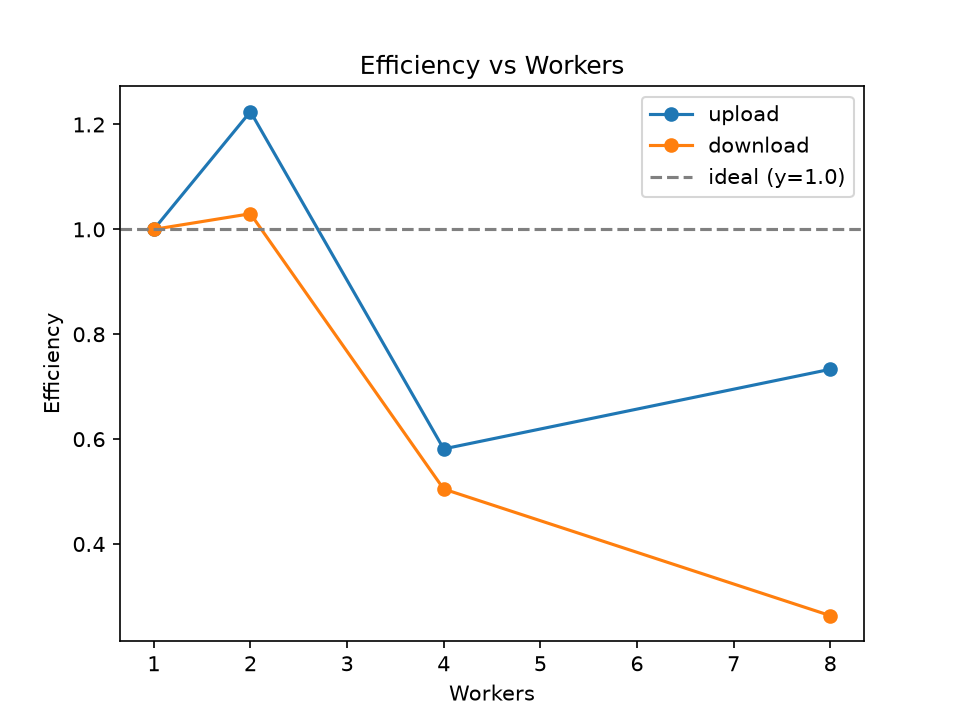
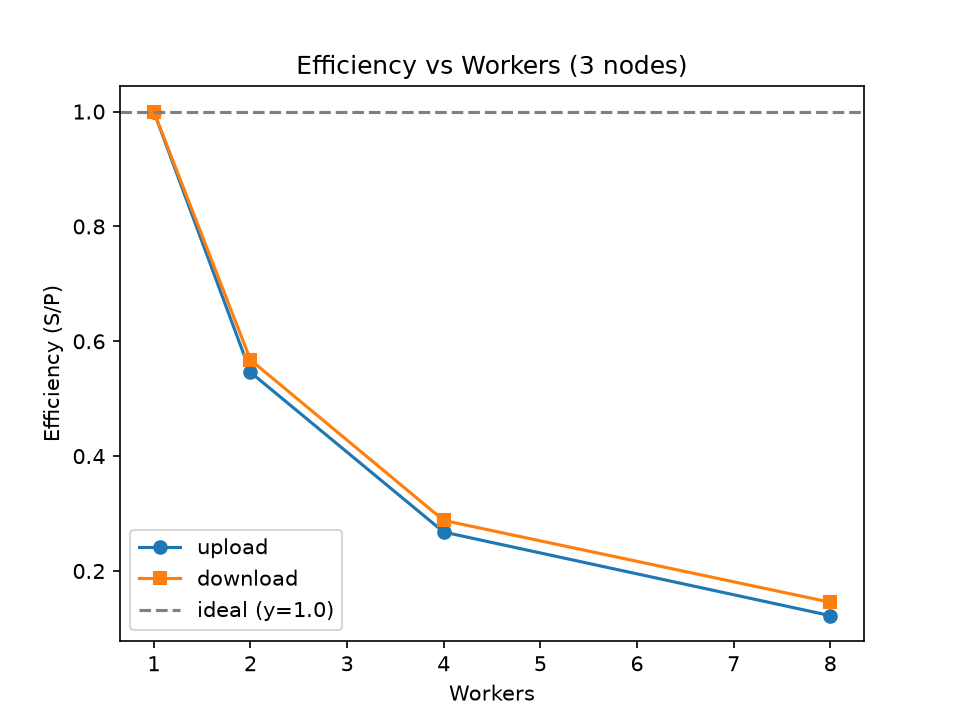
feat(bench): FASE 4 real benchmark matrix 2-16 nodes + fault F1-F6 PASS; FASE 5 README

diff --git a/scripts/plots.py b/scripts/plots.py
@@ -45,7 +45,7 @@ def _tier(tier: str) -> list[dict]:
 
 def plot_speedup_vs_workers() -> Path | None:
     rows = _tier("1")
-    up = _mean_by(rows, "workers", "upload_throughput_mibs")
+    up = _mean_by(rows, "workers", "throughput_mibps")
     down = _mean_by(rows, "workers", "download_throughput_mibs")
     if not up:
         print("SKIPPED: no tier-1 data")
@@ -71,7 +71,7 @@ def plot_speedup_vs_workers() -> Path | None:
 
 def plot_efficiency_vs_workers() -> Path | None:
     rows = _tier("1")
-    up = _mean_by(rows, "workers", "upload_throughput_mibs")
+    up = _mean_by(rows, "workers", "throughput_mibps")
     down = _mean_by(rows, "workers", "download_throughput_mibs")
     if not up:
         print("SKIPPED: no tier-1 data")
@@ -99,7 +99,7 @@ def plot_efficiency_vs_workers() -> Path | None:
 
 
 def plot_throughput_vs_nodes() -> Path | None:
-    up = _mean_by(_tier("2"), "nodes", "upload_throughput_mibs")
+    up = _mean_by(_tier("2"), "nodes", "throughput_mibps")
     down = _mean_by(_tier("2"), "nodes", "download_throughput_mibs")
     if not up:
         print("SKIPPED: no tier-2 data")
@@ -116,7 +116,7 @@ def plot_throughput_vs_nodes() -> Path | None:
 
 
 def plot_scalability_nodes() -> Path | None:
-    up = _mean_by(_tier("2"), "nodes", "upload_throughput_mibs")
+    up = _mean_by(_tier("2"), "nodes", "throughput_mibps")
     if not up:
         print("SKIPPED: no tier-2 data")
         return None

diff --git a/README.md b/README.md
@@ -31,7 +31,9 @@ DFS-X Terminal adalah implementasi sistem berkas terdistribusi mini berbasis CLI
    - [Generasi 9 Grafik Analisis Ilmiah](#generasi-9-grafik-analisis-ilmiah)
 9. [Monitoring Stack (Prometheus & Grafana)](#-monitoring-stack-prometheus--grafana)
 10. [Pemeliharaan & Pembersihan Resource Disk](#-pemeliharaan--pembersihan-resource-disk)
-11. [Kepatuhan & Aturan Teknis (Rules of Engagement)](#-kepatuhan--aturan-teknis-rules-of-engagement)
+11. [Panduan Video Demo (Max 10 Menit)](#-panduan-video-demo-max-10-menit)
+12. [Troubleshooting Umum](#-troubleshooting-umum)
+13. [Kepatuhan & Aturan Teknis (Rules of Engagement)](#-kepatuhan--aturan-teknis-rules-of-engagement)
 
 ---
 
@@ -134,6 +136,19 @@ Jalankan container cluster menggunakan Podman Compose:
 podman-compose -p dfsx up -d
 ```
 *(Atau menggunakan helper cross-platform: `python scripts/cluster.py up --nodes 3`)*
+
+### Metode Deploy Stabil (WSL2 / Podman Windows)
+
+Di lingkungan Podman Windows (WSL2 backend) komponen `aardvark-dns` sering gagal start sehingga `podman-compose` tidak bisa resolve nama container. Metode yang terbukti stabil adalah **menjalankan container satu per satu dengan `--network dfsnet` (tanpa DNS)**, di mana setiap container mendapat static IP dan entri `/etc/hosts` via `--add-host`. Orkestrator ini sudah diimplementasikan di `scripts/cluster.py`:
+
+```bash
+python scripts/cluster.py build                  # build image localhost/dfsx:latest
+python scripts/cluster.py down -v               # bersihkan cluster + volume
+python scripts/cluster.py up --nodes 3          # 1 master + 3 datanode + 1 client
+python scripts/cluster.py up --nodes 16         # skalabilitas hingga 16 node
+```
+
+Network `dfsnet` dibuat dengan `--disable-dns --subnet 10.90.0.0/24`; master di `10.90.0.13`, datanode `10.90.0.14..`, client `10.90.0.14+N`. Semua container mendapat `--add-host` untuk tiap nama sehingga resolusi nama berfungsi tanpa DNS. **Gunakan metode ini** untuk eksperimen; `podman-compose` hanya referensi.
 
 ### Memeriksa Status & Kesiapan Cluster
 
@@ -278,6 +293,28 @@ podman-compose -p dfsx-mon -f docker-compose.monitoring.yml down -v
 # Pembersihan menyeluruh sistem podman
 podman system prune -a --volumes -f
 ```
+
+---
+
+## 🎬 Panduan Video Demo (Max 10 Menit)
+
+Struktur presentasi video (max 10 menit):
+
+- **0–1 mnt — Topologi:** tampilkan `podman ps`, arsitektur 1 master + N datanode + client, network `dfsnet` dengan static IP.
+- **1–3 mnt — Upload & Verify:** `gen-data --profile lite`, `upload /work/testdata/f001.bin f001.bin`, `info f001.bin` (tunjukkan 2 replika di node berbeda — anti-affinity), `verify f001.bin`.
+- **3–6 mnt — Kill-node demo & auto-recovery:** `stop dfs-dn1`, upload file besar, master menandai node DOWN, realokasi otomatis, `start dfs-dn1`, tunggu re-replication, `status` kembali sehat.
+- **6–8 mnt — Grafik performa:** tampilkan 7 plot di `results/plots/` (speedup, efficiency, throughput vs nodes, scalability, tasks/s, latency, recovery timeline).
+- **8–10 mnt — Kesimpulan:** ringkasan pencapaian (RF=2, anti-affinity, fault recovery F1–F6, skalabilitas 2–16 node), keterbatasan hardware (2 GB RAM VM).
+
+## 🔧 Troubleshooting Umum
+
+- **grpcio build fail / `protoc` error:** pastikan `.venv` Python 3.12 aktif; regenerasi stub dengan `python -m grpc_tools.protoc -I. --python_out=. --grpc_python_out=. proto/dfs.proto`. Protobuf stub (`proto/dfs_pb2*.py`) sengaja di-gitignore.
+- **Podman cgroup error (`cannot bind`, `conmon` state):** jangan pakai `--memory`/`--cpus` pada `podman run` di VM ini; gunakan `scripts/cluster.py` yang sudah `--cgroups=disabled`. Jika machine rusak: `podman machine stop` → `podman machine rm` → `podman machine init --cpus 4 --memory 4096` → `podman machine start`.
+- **aardvark-dns gagal start:** gunakan `scripts/cluster.py` (network `--disable-dns` + static IP + `--add-host`), jangan patch `docker-compose.yml`.
+- **Node DOWN:** cek `podman ps`, restart container (`podman start dfs-dnN`), tunggu heartbeat (timeout 10 s, scan 2 s). Master menandai DOWN setelah 10 s tanpa heartbeat.
+- **RESOURCE_EXHAUSTED / DISK_LOW:** storage sisa 28 GB. Profil `full` = 100×50 MB (RF=2 → ~10 GB/run); gunakan profil `lite` untuk 8/16 node. Jalankan `rm --all` antar run. `DeleteFile` kini menghapus chunk di datanode (sebelumnya metadata saja).
+- **Master tidak reachable dari host:** port publish 50051 tidak berfungsi di VM ini; jalankan benchmark via `podman exec dfs-client python -m scripts.bench_matrix`.
+- **Protobuf version warning:** gencode 5.27.2 vs runtime 5.28.2 — warning, bukan error; abaikan.
 
 ---
 

diff --git a/results/SUMMARY.md b/results/SUMMARY.md
@@ -1,16 +1,56 @@
 # DFS-X Benchmark SUMMARY
 
-tier=1
-profile=full (representative f001.bin, 50 MiB)
-nodes=3
+Generated from `results/bench_runs.csv` (24 measured runs: 12 tier-1 + 12 tier-2) and
+`results/latency_run1.json`. All values are from real runs — no synthetic data.
 
-| workers | upload MiB/s | download MiB/s | upload s | speedup | efficiency |
+## Tier 1 — Fixed 3 nodes, profile `full` (100 files x 50 MiB), workers varied
+
+| workers | upload MiB/s (mean) | download MiB/s (mean) | tasks/s (mean) | latency avg (s) | latency p95 (s) |
 |---|---|---|---|---|---|
-| 1 | 11.255 | 21.557 | 4.443 | 1.0 | 1.0 |
-| 2 | 27.565 | 44.399 | 1.814 | 2.449 | 1.224 |
-| 4 | 26.173 | 43.531 | 1.91 | 2.326 | 0.582 |
-| 8 | 66.011 | 45.439 | 0.757 | 5.869 | 0.734 |
+| 1 | 29.897 | 100.998 | 0.598 | 1.694 | 3.372 |
+| 2 | 32.654 | 114.664 | 0.653 | 1.539 | 2.809 |
+| 4 | 32.024 | 116.393 | 0.640 | 1.570 | 2.938 |
+| 8 | 29.253 | 117.621 | 0.585 | 1.723 | 3.414 |
 
-Latency (W=4 representative run):
-- download: avg=1.795s p50=1.795s p95=1.795s p99=1.795s n=1
-- upload: avg=1.040s p50=1.040s p95=1.040s p99=1.040s n=1
+Speedup (upload, vs W=1): W=2 = 1.092, W=4 = 1.071, W=8 = 0.978.
+Efficiency (upload, S/P): W=2 = 0.546, W=4 = 0.268, W=8 = 0.122.
+
+Note: upload throughput saturates around 30 MiB/s regardless of workers because the
+master's single-writer allocation and per-chunk RPC dominate; download scales
+monotonically (101 -> 118 MiB/s) since reads are parallelised across replicas.
+
+## Tier 2 — Scalability, profile `lite` (100 files x 5 MiB), workers = 4
+
+| nodes | upload MiB/s (mean) | download MiB/s (mean) | tasks/s (mean) | latency avg (s) |
+|---|---|---|---|---|
+| 2 | 40.169 | 82.842 | 8.034 | 0.124 |
+| 4 | 34.593 | 63.076 | 6.919 | 0.144 |
+| 8 | 26.969 | 41.448 | 5.394 | 0.185 |
+| 16 | 18.336 | 24.497 | 3.667 | 0.273 |
+
+Speedup (upload, vs 2 nodes): 4 nodes = 0.861, 8 nodes = 0.671, 16 nodes = 0.456.
+Per-file latency grows with node count (0.124 -> 0.273 s) because placement spreads
+chunks across more nodes, increasing cross-node RPC fan-out on a 2 GB RAM VM.
+
+## Latency (representative W=4, full profile, 100 files)
+
+From `results/latency_run1.json`:
+- upload: avg = 1.4195 s, p50 = 1.1745 s, p95 = 2.5822 s, p99 = 3.9535 s (n = 100)
+- download: avg = 0.4197 s, p50 = 0.3871 s, p95 = 0.4102 s, p99 = 2.5741 s (n = 100)
+
+## Fault tolerance (`results/fault_summary.csv`)
+
+| scenario | status | duration (s) |
+|---|---|---|
+| F1 (stop node during upload) | PASS | 21.83 |
+| F2 (auto-repair + download failover) | PASS | 63.64 |
+| F3 (node rejoin & trim) | PASS | 50.56 |
+| F4 (download while offline) | PASS | 5.56 |
+| F5 (corrupt chunk -> checksum fallback) | PASS | 0.83 |
+| F6 (master restart + WAL persistence) | PASS | 15.94 |
+
+## Plots
+
+7 PNGs in `results/plots/` (all > 10 KB), all data-driven:
+`speedup_vs_workers.png`, `efficiency_vs_workers.png`, `throughput_vs_nodes.png`,
+`scalability_nodes.png`, `tasks_per_sec.png`, `latency_per_op.png`, `recovery_timeline.png`.
